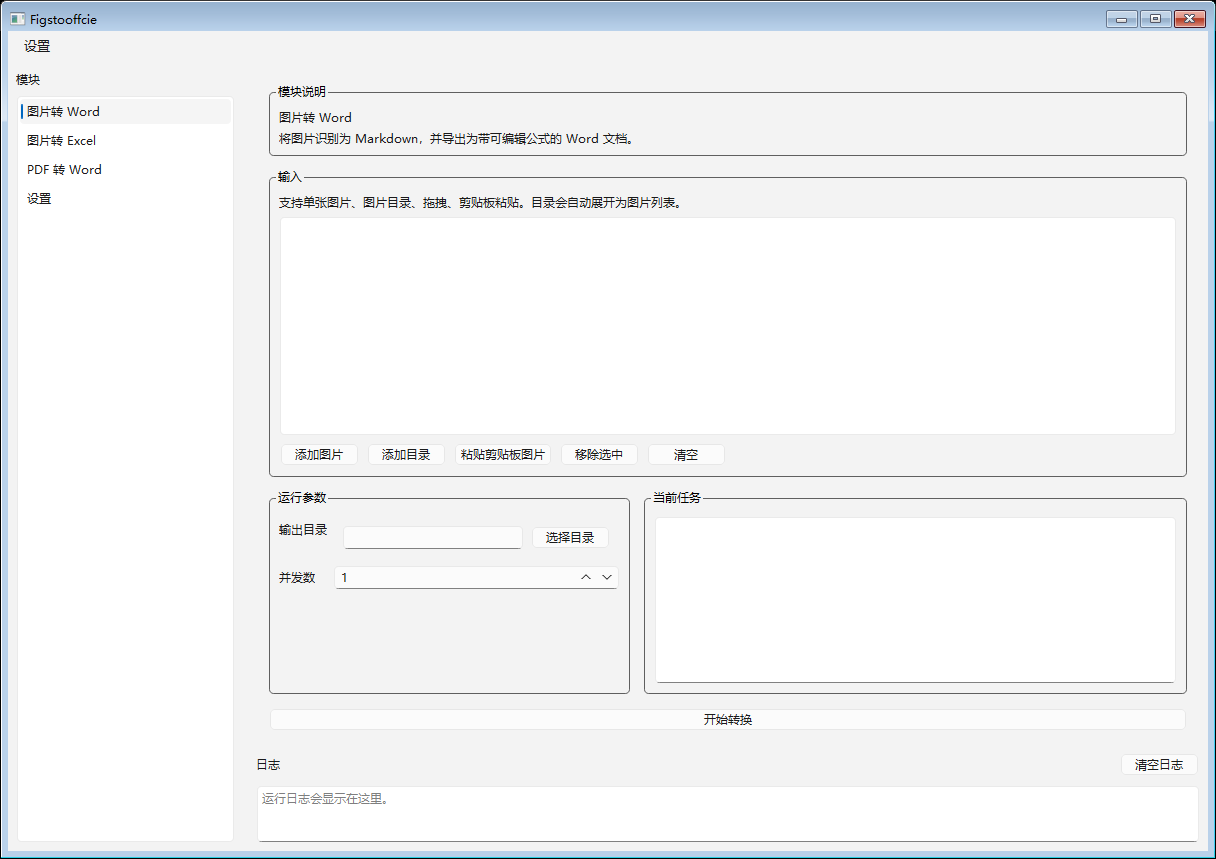
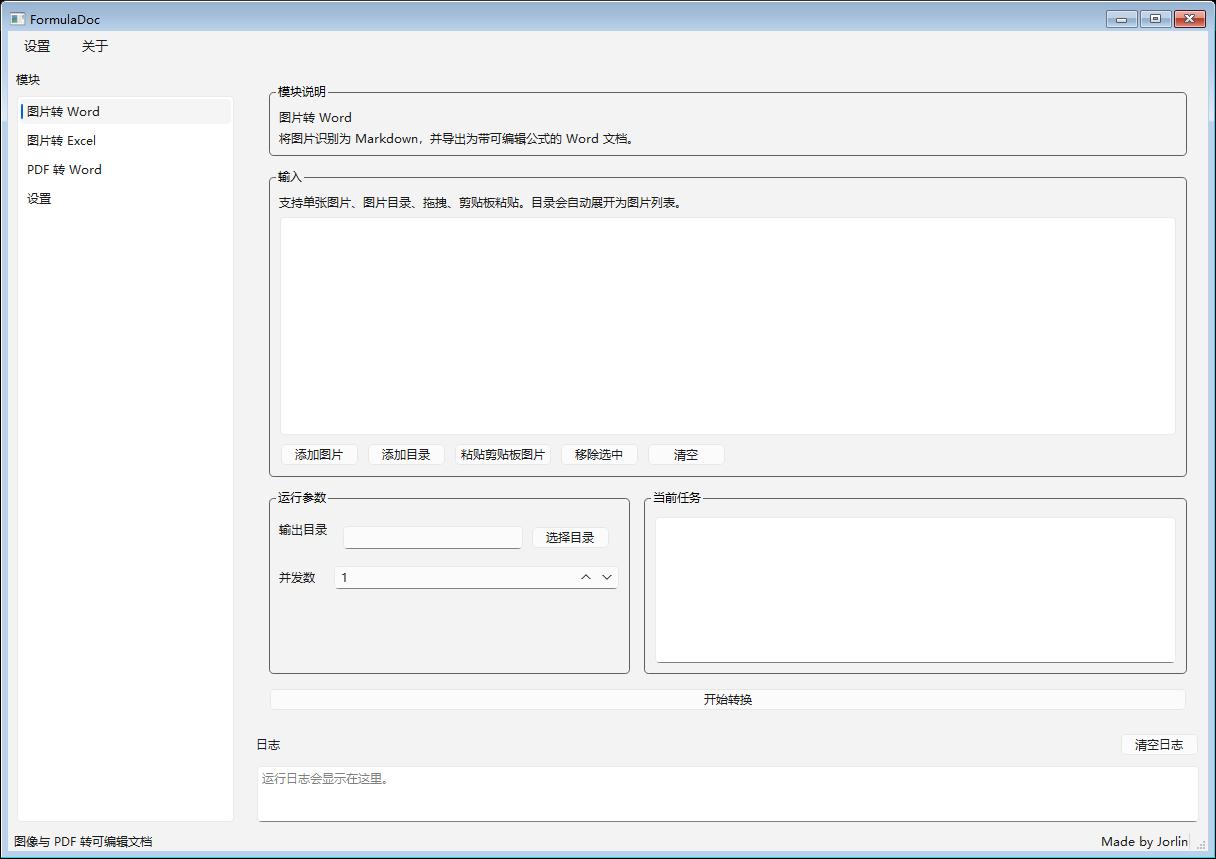
Rename app to FormulaDoc

diff --git a/Figstooffcie/core/config.py b/Figstooffcie/core/config.py
@@ -2,11 +2,14 @@ from __future__ import annotations
 
 import json
 import os
+import shutil
 from dataclasses import asdict, dataclass
 from pathlib import Path
 
 
-APP_NAME = "Figstooffcie"
+APP_NAME = "FormulaDoc"
+APP_AUTHOR = "Jorlin"
+LEGACY_APP_NAMES = ("Figstooffcie",)
 SUPPORTED_IMAGE_EXTENSIONS = (".png", ".jpg", ".jpeg", ".webp", ".bmp", ".gif")
 SUPPORTED_PDF_EXTENSIONS = (".pdf",)
 
@@ -40,6 +43,7 @@ def build_app_paths(project_root: Path) -> AppPaths:
     user_data_dir = base_dir / APP_NAME
     try:
         user_data_dir.mkdir(parents=True, exist_ok=True)
+        _migrate_legacy_data(base_dir, user_data_dir)
     except PermissionError:
         user_data_dir = project_root / ".localdata"
         user_data_dir.mkdir(parents=True, exist_ok=True)
@@ -49,6 +53,19 @@ def build_app_paths(project_root: Path) -> AppPaths:
         settings_file=user_data_dir / "settings.json",
         secrets_file=user_data_dir / "secrets.json",
     )
+
+
+def _migrate_legacy_data(base_dir: Path, user_data_dir: Path) -> None:
+    for legacy_name in LEGACY_APP_NAMES:
+        legacy_dir = base_dir / legacy_name
+        if not legacy_dir.is_dir() or legacy_dir == user_data_dir:
+            continue
+        for filename in ("settings.json", "secrets.json"):
+            source = legacy_dir / filename
+            target = user_data_dir / filename
+            if source.is_file() and not target.exists():
+                shutil.copy2(source, target)
+        break
 
 
 class SettingsStore:

diff --git a/Figstooffcie/app/main_window.py b/Figstooffcie/app/main_window.py
@@ -19,7 +19,7 @@ from PySide6.QtWidgets import (
 
 from app.pages.module_page import ModuleRunPage
 from app.pages.settings_page import SettingsPage
-from core.config import AppPaths, SettingsStore
+from core.config import APP_AUTHOR, APP_NAME, AppPaths, SettingsStore
 from core.registry import ModuleRegistry
 from modules.img_to_excel.module import create_module as create_excel_module
 from modules.pdf_to_word.module import create_module as create_pdf_module
@@ -38,7 +38,7 @@ class MainWindow(QMainWindow):
         self.registry.register(create_excel_module())
         self.registry.register(create_pdf_module())
 
-        self.setWindowTitle("Figstooffcie")
+        self.setWindowTitle(APP_NAME)
         self.resize(1200, 820)
 
         self.sidebar = QListWidget()
@@ -109,12 +109,18 @@ class MainWindow(QMainWindow):
         root_layout.addWidget(splitter)
 
         self.setCentralWidget(root)
+        self.statusBar().showMessage("图像与 PDF 转可编辑文档")
+        self.statusBar().addPermanentWidget(QLabel(f"Made by {APP_AUTHOR}"))
         self.sidebar.currentRowChanged.connect(self.stack.setCurrentIndex)
 
     def _build_menu(self) -> None:
         settings_action = QAction("设置", self)
         settings_action.triggered.connect(lambda: self.sidebar.setCurrentRow(len(self.module_pages)))
         self.menuBar().addAction(settings_action)
+
+        about_action = QAction("关于", self)
+        about_action.triggered.connect(self._show_about)
+        self.menuBar().addAction(about_action)
 
     def _populate_sidebar(self) -> None:
         items = [
@@ -144,3 +150,10 @@ class MainWindow(QMainWindow):
         self.log_view.appendPlainText(message)
         bar = self.log_view.verticalScrollBar()
         bar.setValue(bar.maximum())
+
+    def _show_about(self) -> None:
+        QMessageBox.about(
+            self,
+            f"关于 {APP_NAME}",
+            f"{APP_NAME}\n图像与 PDF 转可编辑文档\n\nCreated by {APP_AUTHOR}",
+        )

diff --git a/Figstooffcie/main.py b/Figstooffcie/main.py
@@ -4,13 +4,13 @@ import sys
 from PySide6.QtWidgets import QApplication
 
 from app.main_window import MainWindow
-from core.config import build_app_paths
+from core.config import APP_AUTHOR, APP_NAME, build_app_paths
 
 
 def main() -> int:
     app = QApplication(sys.argv)
-    app.setApplicationName("Figstooffcie")
-    app.setOrganizationName("Figstooffcie")
+    app.setApplicationName(APP_NAME)
+    app.setOrganizationName(APP_AUTHOR)
 
     project_root = Path(__file__).resolve().parent
     paths = build_app_paths(project_root)

diff --git a/Figstooffcie/README.md b/Figstooffcie/README.md
@@ -1,6 +1,7 @@
 <div align="center">
-  <h1>Figstooffcie</h1>
+  <h1>FormulaDoc</h1>
   <p><strong>Windows 桌面版文档处理工具</strong></p>
+  <p>by Jorlin</p>
   <p>图片转 Word · 图片转 Excel · PDF 转 Word</p>
   <p>
     <a href="https://github.com/GeoHydrocarbon/Figtooffice/releases">下载发布包</a>
@@ -38,7 +39,7 @@
 ## 界面预览
 
 <div align="center">
-  <img src="docs/screenshots/main-window.png" alt="Figstooffcie 主界面" width="100%">
+  <img src="docs/screenshots/main-window.png" alt="FormulaDoc 主界面" width="100%">
 </div>
 
 ## 输入方式
@@ -55,7 +56,7 @@
 1. 打开 [Releases](https://github.com/GeoHydrocarbon/Figtooffice/releases)
 2. 下载 Windows 发布包
 3. 解压整个压缩包
-4. 运行 `Figstooffcie.exe`
+4. 运行 `FormulaDoc.exe`
 5. 在“设置”页填写自己的 `API Key`
 
 ### 本地运行源码
@@ -73,7 +74,7 @@ python main.py
 .\build_windows.ps1
 ```
 
-打包结果输出到 `dist\Figstooffcie\`，分发时需要**整个目录一起发送**，不要只发送单个 `Figstooffcie.exe`。
+打包结果输出到 `dist\FormulaDoc\`，分发时需要**整个目录一起发送**，不要只发送单个 `FormulaDoc.exe`。
 
 当前瘦身后的分发目录大约 `213 MB`，压缩包大约 `92 MB`。
 
@@ -81,7 +82,7 @@ python main.py
 
 - 首次运行时，用户只需要在“设置”页填写自己的 `API Key`
 - 仓库不会提交 `conda_env/`、`build/`、`dist/`、`.localdata/` 等本地产物
-- 如果重新打包，请先关闭正在运行的 `Figstooffcie.exe`
+- 如果重新打包，请先关闭正在运行的 `FormulaDoc.exe`
 
 ## 公式说明
 

diff --git a/README.md b/README.md
@@ -1,6 +1,7 @@
 <div align="center">
-  <h1>Figtooffice</h1>
+  <h1>FormulaDoc</h1>
   <p><strong>面向 Windows 的 Office 文档转换工具</strong></p>
+  <p>by Jorlin</p>
   <p>图片转 Word · 图片转 Excel · PDF 转 Word</p>
   <p>
     <a href="https://github.com/GeoHydrocarbon/Figtooffice/releases">下载发布包</a>
@@ -32,7 +33,7 @@
 
 ## 产品简介
 
-Figtooffice 的目标很直接：把图片或 PDF 中的文字、公式、表格恢复成可以继续编辑的 Office 文档，而不是只生成截图式结果。
+FormulaDoc 的目标很直接：把图片或 PDF 中的文字、公式、表格恢复成可以继续编辑的 Office 文档，而不是只生成截图式结果。
 
 当前提供 3 个核心能力：
 
@@ -43,7 +44,7 @@ Figtooffice 的目标很直接：把图片或 PDF 中的文字、公式、表格
 ## 界面预览
 
 <div align="center">
-  <img src="Figstooffcie/docs/screenshots/main-window.png" alt="Figtooffice 主界面" width="100%">
+  <img src="Figstooffcie/docs/screenshots/main-window.png" alt="FormulaDoc 主界面" width="100%">
 </div>
 
 ## 适合什么场景
@@ -58,7 +59,7 @@ Figtooffice 的目标很直接：把图片或 PDF 中的文字、公式、表格
 1. 打开 [Releases](https://github.com/GeoHydrocarbon/Figtooffice/releases)
 2. 下载 Windows 发布包
 3. 解压整个压缩包
-4. 运行 `Figstooffcie.exe`
+4. 运行 `FormulaDoc.exe`
 5. 在“设置”页填写自己的 `API Key`
 
 ## 仓库说明